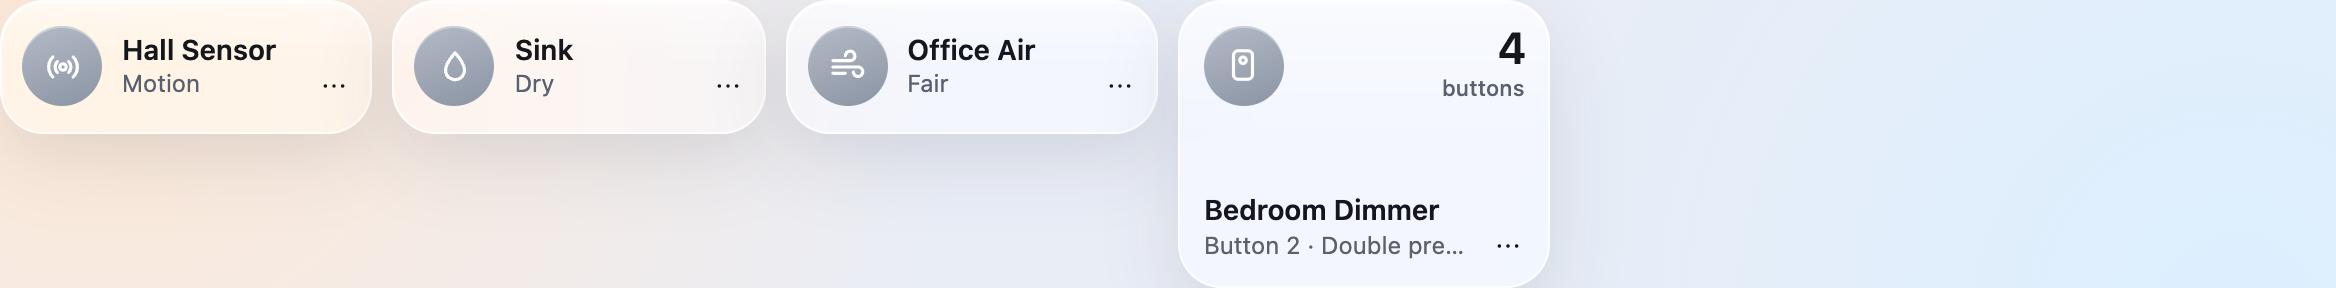
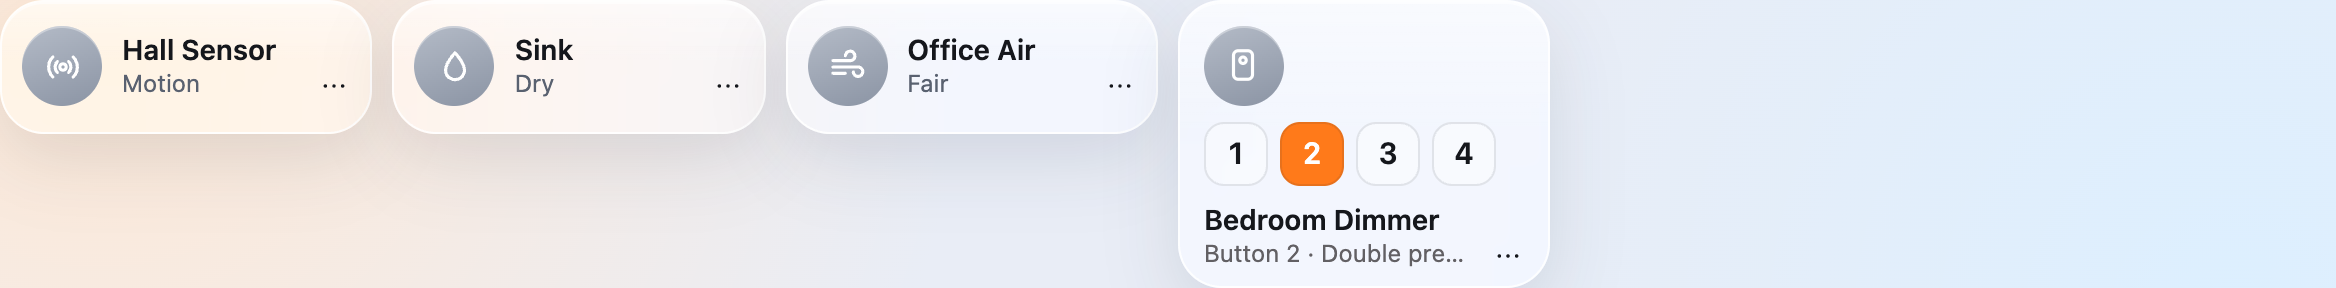
Design pass: a remote's keys on its tall tile, no room pill among sensors
A tall remote tile showed its button count above an empty middle; it now shows
a key per button there, lit as it is pressed, as the large tile does (a tile's
widget may give a `middle`, drawn in place of the hero value). The Hue page's
Sensors tab no longer shows whether a room's lights are on beside its sensors.
The widget and plugin page screenshots and the design system's runtime copies
follow.

diff --git a/Sources/HomeswiftUI/WebAssets.swift b/Sources/HomeswiftUI/WebAssets.swift
@@ -18445,6 +18445,9 @@ button.busy::after {
   background: var(--material-thin); border: 1px solid var(--line); font-weight: 600; font-variant-numeric: tabular-nums;
   transition: background-color 600ms var(--ease-out), color 600ms var(--ease-out), transform 300ms var(--ease-out);
 }
+/* On a medium tile the keys sit between its icon and its name, above the tile's tap target like its other lines. */
+.widget-summary > .remote-key-row { position: relative; z-index: 1; pointer-events: none; gap: 6px; }
+.widget-summary > .remote-key-row .remote-key { min-width: 32px; height: 32px; border-radius: 10px; }
 .remote-key.pressed { background: var(--accent); color: var(--accent-text); transform: scale(0.94); transition-duration: 60ms; }
 .widget .tile.pressed { transform: scale(0.94); transition: transform 60ms var(--ease-out); }
 @media (prefers-reduced-motion: reduce) { .remote-key.pressed, .widget .tile.pressed { transform: none; } }
@@ -23231,7 +23234,7 @@ self.addEventListener("notificationclick", (event) => {
 
   // A remote's buttons (a dimmer switch, a Tap, an IKEA remote): read only, a press is an event and nothing HomeKit
   // sends back. The tile gives a little press and the status line says which button and how until the next; from
-  // large up a key per button lights for a moment as it is pressed. Tapping it opens All controls.
+  // medium up a key per button lights for a moment as it is pressed. Tapping it opens All controls.
   register({
     name: "remote", types: ["StatelessProgrammableSwitch"], icon: "switch", tone: "green",
     size: (ctx) => ctx.all("StatelessProgrammableSwitch").length > 1 ? "medium" : "small",
@@ -23265,6 +23268,8 @@ self.addEventListener("notificationclick", (event) => {
           if (isOn(low)) return [t("Low battery"), "warn"];
           return [buttons.length > 1 ? t("Press a button to see it here") : t("Press it to see it here")];
         },
+        // A tall tile shows the keys between its icon and its name, in place of the count they make plain.
+        middle: size === "small" ? el("div", { class: "remote-key-row", "aria-hidden": "true" }, keys) : null,
         body: size === "small" ? [] : [el("div", { class: "remote-keys" }, el("div", { class: "remote-key-row", "aria-hidden": "true" }, keys), battery)],
       };
     },
@@ -23500,7 +23505,8 @@ self.addEventListener("notificationclick", (event) => {
   }
 
   /// Compact and tall summary tiles share their tap/hold actions; large and extra-large cards keep inline controls.
-  /// The ⋯ menu opens all controls at every size.
+  /// The ⋯ menu opens all controls at every size. A tall tile shows its widget's `middle`, when it gives one, between
+  /// its icon and its name, in place of the hero value.
   function frame(ctx, widget, built, primary, size) {
     const { accessory } = ctx;
     const [glyph, paintGlyph] = glyphFor(ctx, widget, built, primary);
@@ -23589,11 +23595,12 @@ self.addEventListener("notificationclick", (event) => {
         // Once a finger has held still, the page does not scroll under it.
         hit.addEventListener("touchmove", (event) => { if (armed) event.preventDefault(); }, { passive: false });
       }
-      node.append(shade ?? "", hit, el("div", { class: "w-top" }, glyph, hero), el("div", { class: "w-bottom" }, who, menu));
+      const middle = size === "medium" ? built.middle : null;
+      node.append(shade ?? "", hit, el("div", { class: "w-top" }, glyph, hero), middle ?? "", el("div", { class: "w-bottom" }, who, menu));
       ctx.watch(() => {
         const on = built.on ? built.on() : false;
         node.classList.toggle("on", on);
-        const value = sliding !== null ? `${sliding}%` : built.hero ? built.hero() : "";
+        const value = sliding !== null ? `${sliding}%` : built.hero && !middle ? built.hero() : "";
         hero.replaceChildren(...(value ? [value] : []));
         if (shade) {
           const { min, max } = built.slide ?? { min: 0, max: 100 };

diff --git a/Sources/HomeswiftUI/Web/widgets.js b/Sources/HomeswiftUI/Web/widgets.js
@@ -1591,7 +1591,7 @@
 
   // A remote's buttons (a dimmer switch, a Tap, an IKEA remote): read only, a press is an event and nothing HomeKit
   // sends back. The tile gives a little press and the status line says which button and how until the next; from
-  // large up a key per button lights for a moment as it is pressed. Tapping it opens All controls.
+  // medium up a key per button lights for a moment as it is pressed. Tapping it opens All controls.
   register({
     name: "remote", types: ["StatelessProgrammableSwitch"], icon: "switch", tone: "green",
     size: (ctx) => ctx.all("StatelessProgrammableSwitch").length > 1 ? "medium" : "small",
@@ -1625,6 +1625,8 @@
           if (isOn(low)) return [t("Low battery"), "warn"];
           return [buttons.length > 1 ? t("Press a button to see it here") : t("Press it to see it here")];
         },
+        // A tall tile shows the keys between its icon and its name, in place of the count they make plain.
+        middle: size === "small" ? el("div", { class: "remote-key-row", "aria-hidden": "true" }, keys) : null,
         body: size === "small" ? [] : [el("div", { class: "remote-keys" }, el("div", { class: "remote-key-row", "aria-hidden": "true" }, keys), battery)],
       };
     },
@@ -1860,7 +1862,8 @@
   }
 
   /// Compact and tall summary tiles share their tap/hold actions; large and extra-large cards keep inline controls.
-  /// The ⋯ menu opens all controls at every size.
+  /// The ⋯ menu opens all controls at every size. A tall tile shows its widget's `middle`, when it gives one, between
+  /// its icon and its name, in place of the hero value.
   function frame(ctx, widget, built, primary, size) {
     const { accessory } = ctx;
     const [glyph, paintGlyph] = glyphFor(ctx, widget, built, primary);
@@ -1949,11 +1952,12 @@
         // Once a finger has held still, the page does not scroll under it.
         hit.addEventListener("touchmove", (event) => { if (armed) event.preventDefault(); }, { passive: false });
       }
-      node.append(shade ?? "", hit, el("div", { class: "w-top" }, glyph, hero), el("div", { class: "w-bottom" }, who, menu));
+      const middle = size === "medium" ? built.middle : null;
+      node.append(shade ?? "", hit, el("div", { class: "w-top" }, glyph, hero), middle ?? "", el("div", { class: "w-bottom" }, who, menu));
       ctx.watch(() => {
         const on = built.on ? built.on() : false;
         node.classList.toggle("on", on);
-        const value = sliding !== null ? `${sliding}%` : built.hero ? built.hero() : "";
+        const value = sliding !== null ? `${sliding}%` : built.hero && !middle ? built.hero() : "";
         hero.replaceChildren(...(value ? [value] : []));
         if (shade) {
           const { min, max } = built.slide ?? { min: 0, max: 100 };

diff --git a/site/design/runtime/widgets.js b/site/design/runtime/widgets.js
@@ -1591,7 +1591,7 @@
 
   // A remote's buttons (a dimmer switch, a Tap, an IKEA remote): read only, a press is an event and nothing HomeKit
   // sends back. The tile gives a little press and the status line says which button and how until the next; from
-  // large up a key per button lights for a moment as it is pressed. Tapping it opens All controls.
+  // medium up a key per button lights for a moment as it is pressed. Tapping it opens All controls.
   register({
     name: "remote", types: ["StatelessProgrammableSwitch"], icon: "switch", tone: "green",
     size: (ctx) => ctx.all("StatelessProgrammableSwitch").length > 1 ? "medium" : "small",
@@ -1625,6 +1625,8 @@
           if (isOn(low)) return [t("Low battery"), "warn"];
           return [buttons.length > 1 ? t("Press a button to see it here") : t("Press it to see it here")];
         },
+        // A tall tile shows the keys between its icon and its name, in place of the count they make plain.
+        middle: size === "small" ? el("div", { class: "remote-key-row", "aria-hidden": "true" }, keys) : null,
         body: size === "small" ? [] : [el("div", { class: "remote-keys" }, el("div", { class: "remote-key-row", "aria-hidden": "true" }, keys), battery)],
       };
     },
@@ -1860,7 +1862,8 @@
   }
 
   /// Compact and tall summary tiles share their tap/hold actions; large and extra-large cards keep inline controls.
-  /// The ⋯ menu opens all controls at every size.
+  /// The ⋯ menu opens all controls at every size. A tall tile shows its widget's `middle`, when it gives one, between
+  /// its icon and its name, in place of the hero value.
   function frame(ctx, widget, built, primary, size) {
     const { accessory } = ctx;
     const [glyph, paintGlyph] = glyphFor(ctx, widget, built, primary);
@@ -1949,11 +1952,12 @@
         // Once a finger has held still, the page does not scroll under it.
         hit.addEventListener("touchmove", (event) => { if (armed) event.preventDefault(); }, { passive: false });
       }
-      node.append(shade ?? "", hit, el("div", { class: "w-top" }, glyph, hero), el("div", { class: "w-bottom" }, who, menu));
+      const middle = size === "medium" ? built.middle : null;
+      node.append(shade ?? "", hit, el("div", { class: "w-top" }, glyph, hero), middle ?? "", el("div", { class: "w-bottom" }, who, menu));
       ctx.watch(() => {
         const on = built.on ? built.on() : false;
         node.classList.toggle("on", on);
-        const value = sliding !== null ? `${sliding}%` : built.hero ? built.hero() : "";
+        const value = sliding !== null ? `${sliding}%` : built.hero && !middle ? built.hero() : "";
         hero.replaceChildren(...(value ? [value] : []));
         if (shade) {
           const { min, max } = built.slide ?? { min: 0, max: 100 };

diff --git a/site/design/runtime/style.css b/site/design/runtime/style.css
@@ -235,6 +235,9 @@ button.busy::after {
   background: var(--material-thin); border: 1px solid var(--line); font-weight: 600; font-variant-numeric: tabular-nums;
   transition: background-color 600ms var(--ease-out), color 600ms var(--ease-out), transform 300ms var(--ease-out);
 }
+/* On a medium tile the keys sit between its icon and its name, above the tile's tap target like its other lines. */
+.widget-summary > .remote-key-row { position: relative; z-index: 1; pointer-events: none; gap: 6px; }
+.widget-summary > .remote-key-row .remote-key { min-width: 32px; height: 32px; border-radius: 10px; }
 .remote-key.pressed { background: var(--accent); color: var(--accent-text); transform: scale(0.94); transition-duration: 60ms; }
 .widget .tile.pressed { transform: scale(0.94); transition: transform 60ms var(--ease-out); }
 @media (prefers-reduced-motion: reduce) { .remote-key.pressed, .widget .tile.pressed { transform: none; } }
@@ -3071,6 +3074,11 @@ select option:disabled { color: var(--muted); }
    its address, scene tiles painted with their palette or a picture, the transition's speed scale and the save bar.
    plugin.js has their pieces (tabs, bridgePairing, scenePictures, textStyle, speedScale). */
 .main-tabs { margin: 18px 0 14px; }
+/* On a phone the tabs share the width, so four of them fit; a long name ends in an ellipsis. */
+@media (max-width: 600px) {
+  .main-tabs { display: flex; width: 100%; }
+  .main-tabs > button { flex: 1 1 0; min-width: 0; padding: 5px 6px; justify-content: center; gap: 5px; overflow: hidden; text-overflow: ellipsis; }
+}
 .tab-pane { animation: fade var(--normal) var(--ease-out); }
 
 /* The bridge card: a block per bridge (a line between two), its facts once paired, then the address form. */

diff --git a/Plugins/PhilipsHue/Sources/WebFiles.swift b/Plugins/PhilipsHue/Sources/WebFiles.swift
@@ -180,8 +180,8 @@ h2 { margin: 0 0 10px; }
 
   // MARK: Sensors and switches, as the Accessories page draws them
 
+  // No room pill here: whether a room's lights are on says nothing about its sensors.
   const sensorFinder = homeswift.finder({
-    roomPill,
     toolbar: $("#sensor-toolbar"), placeholder: t("Search sensors"), prefix: "s", foldKey: "hue-folded-sensor-rooms", draw: () => drawSensors(),
     items: () => sensorAccessories.map((accessory) => {
       const sensor = sensors.find((entry) => `PhilipsHue:device:${entry.id}` === accessory.id);
@@ -334,8 +334,6 @@ h2 { margin: 0 0 10px; }
     if (!group) return null;
     return el("span", { class: `pill status ${group.on ? "on" : "standby"}`, text: group.kind === "zone" ? (group.on ? t("Zone on") : t("Zone off")) : (group.on ? t("Room on") : t("Room off")) });
   }
-
-
 
   // The scenes' finder: Colour scenes leaves out the whites of Hue's standard scenes.
   const sceneFinder = homeswift.finder({ roomPill,

diff --git a/Sources/HomeswiftUI/Web/style.css b/Sources/HomeswiftUI/Web/style.css
@@ -235,6 +235,9 @@ button.busy::after {
   background: var(--material-thin); border: 1px solid var(--line); font-weight: 600; font-variant-numeric: tabular-nums;
   transition: background-color 600ms var(--ease-out), color 600ms var(--ease-out), transform 300ms var(--ease-out);
 }
+/* On a medium tile the keys sit between its icon and its name, above the tile's tap target like its other lines. */
+.widget-summary > .remote-key-row { position: relative; z-index: 1; pointer-events: none; gap: 6px; }
+.widget-summary > .remote-key-row .remote-key { min-width: 32px; height: 32px; border-radius: 10px; }
 .remote-key.pressed { background: var(--accent); color: var(--accent-text); transform: scale(0.94); transition-duration: 60ms; }
 .widget .tile.pressed { transform: scale(0.94); transition: transform 60ms var(--ease-out); }
 @media (prefers-reduced-motion: reduce) { .remote-key.pressed, .widget .tile.pressed { transform: none; } }

diff --git a/Plugins/PhilipsHue/Web/app.js b/Plugins/PhilipsHue/Web/app.js
@@ -138,8 +138,8 @@
 
   // MARK: Sensors and switches, as the Accessories page draws them
 
+  // No room pill here: whether a room's lights are on says nothing about its sensors.
   const sensorFinder = homeswift.finder({
-    roomPill,
     toolbar: $("#sensor-toolbar"), placeholder: t("Search sensors"), prefix: "s", foldKey: "hue-folded-sensor-rooms", draw: () => drawSensors(),
     items: () => sensorAccessories.map((accessory) => {
       const sensor = sensors.find((entry) => `PhilipsHue:device:${entry.id}` === accessory.id);
@@ -292,8 +292,6 @@
     if (!group) return null;
     return el("span", { class: `pill status ${group.on ? "on" : "standby"}`, text: group.kind === "zone" ? (group.on ? t("Zone on") : t("Zone off")) : (group.on ? t("Room on") : t("Room off")) });
   }
-
-
 
   // The scenes' finder: Colour scenes leaves out the whites of Hue's standard scenes.
   const sceneFinder = homeswift.finder({ roomPill,

diff --git a/docs/widgets.md b/docs/widgets.md
@@ -131,13 +131,13 @@ list below that it has):
 | Switch, Outlet (one) | Switch | on and off | on and off | a big switch | a power button, its facets |
 | Switch, Outlet (several) | Group of switches | how many are on | how many are on | chips | a tile each |
 | Sensors | Sensor | the reading | the main reading | the readings | the readings, battery |
-| StatelessProgrammableSwitch | Remote | the last press | how many buttons, the last press | a key per button, lit as it is pressed; low battery | the same |
+| StatelessProgrammableSwitch | Remote | the last press | a key per button, the last press | a key per button, lit as it is pressed; low battery | the same |
 | (a camera) | Camera | the picture | the picture | the picture | the picture with its buttons |
 | anything else | Rows | power | power, status | its first rows | more rows |
 
 A remote's buttons (a Hue dimmer or Tap, an IKEA STYRBAR) send presses, which HomeKit cannot send back, so its widget
 only shows them: the tile gives a small press and the status line names the button and how it was pressed
-("Button 2 · Double press") until the next; from large up, a key per button (in its Service Label Index order) lights
+("Button 2 · Double press") until the next; from medium up, a key per button (in its Service Label Index order) lights
 at once and fades out. Under reduced motion only the colour changes.
 
 ![Sensors and a remote at their sizes, and a remote's press](images/widgets/remote.png)
